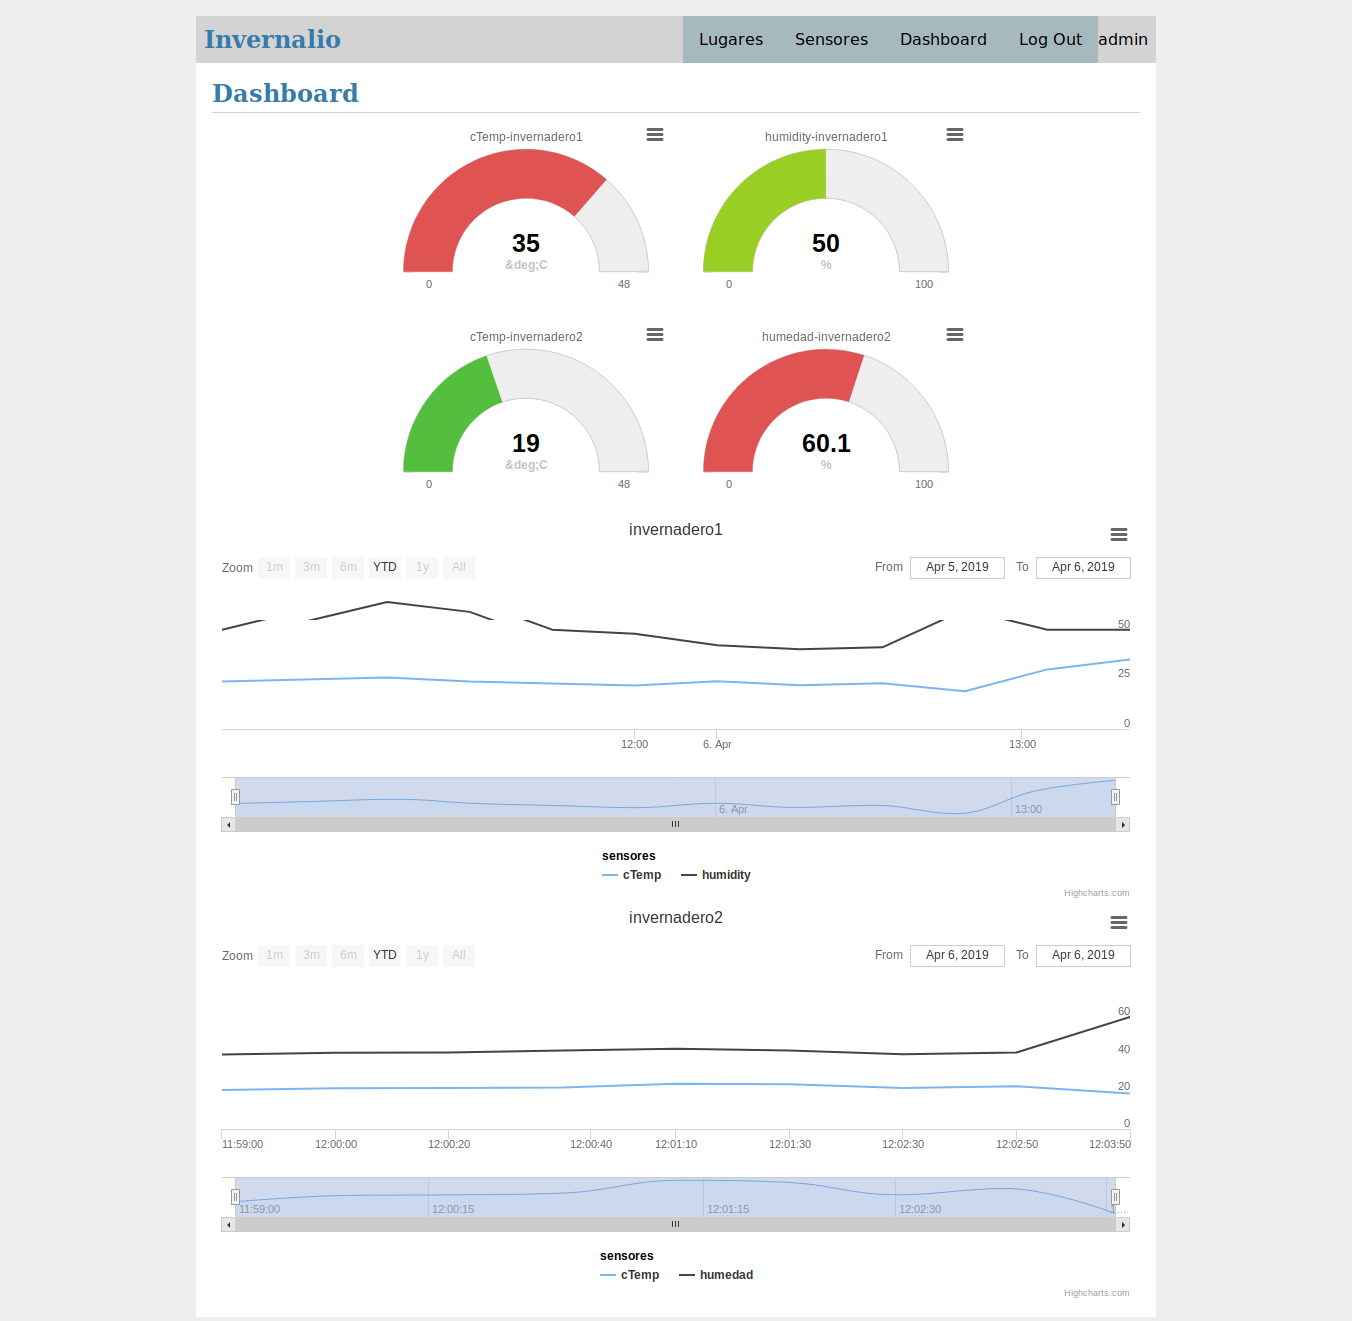
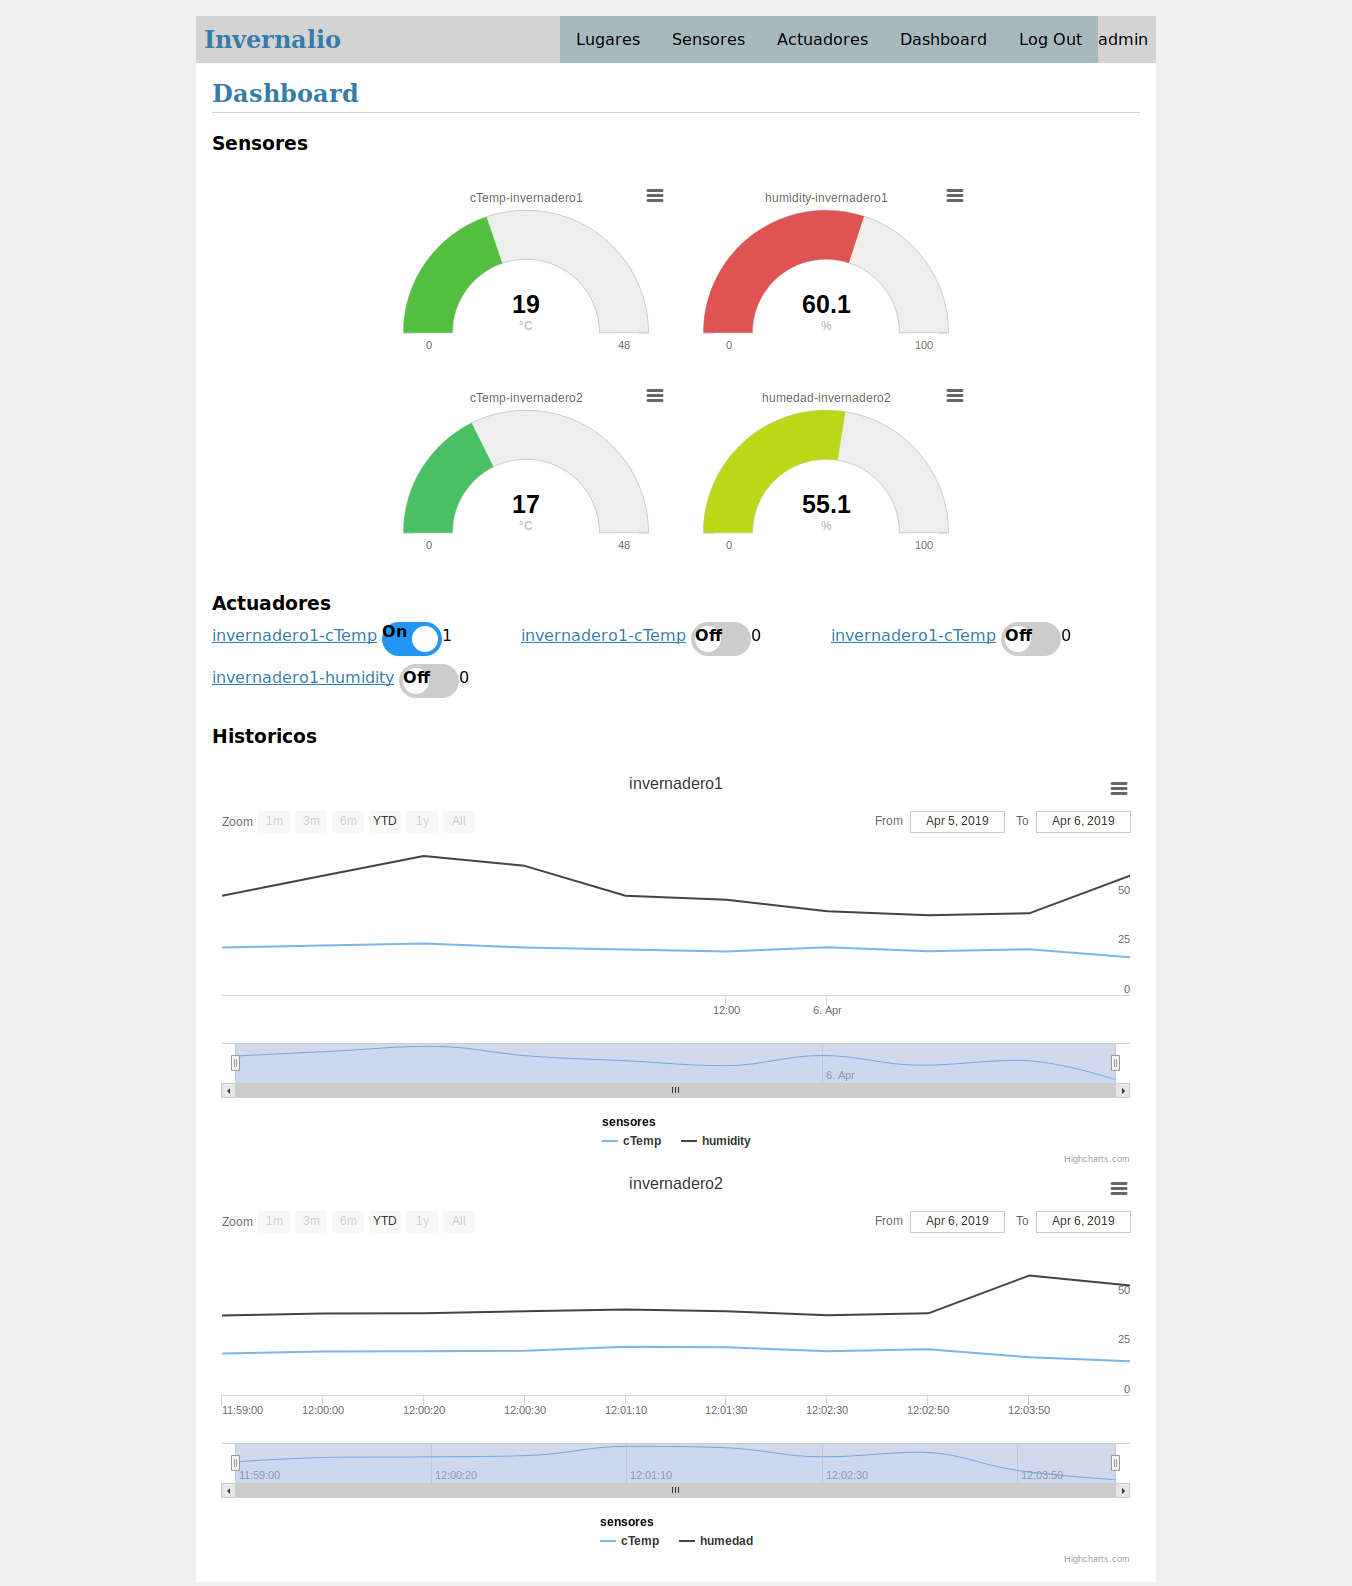
Cambios menores en el dashboard

diff --git a/piinvernadero/templates/dashboard/index.html b/piinvernadero/templates/dashboard/index.html
@@ -10,7 +10,7 @@
         <script src="{{ url_for('static', filename='highcharts-more.js') }}"></script>
         <script src="{{ url_for('static', filename='solid-gauge.js') }}"></script>
         <style type="text/css">
-           .outer {width: 600px;height: {{ boxwidth }}px;margin: 0 auto;}
+           .outer {width: 600px;height: {{ sensores|length*100+(sensores|length % 2)*100  }}px;margin: 0 auto;}
           .outer .chart-container {width: 300px;float: left;height: 200px;}
           .highcharts-yaxis-grid .highcharts-grid-line {display: none;}
           @media (max-width: 600px) {
@@ -106,8 +106,8 @@
 
   <h3>Actuadores</h3>
   {% for actuator in actuators %}
+    {% if index['actuador'] == 0 or index['actuador'] % 3 == 0 %} <div id="content-body"> {% endif %}
     {% if index['actuador'] % 3 == 0  %}
-      <div id="content-body">
         <div id="primero" >
 		<span > <a class="action" href="{{ url_for('actuator.update', id=actuator['id']) }}">
 				{{ actuator['site'] }}-{{ actuator['sensor'] }}</a></span>
@@ -138,9 +138,9 @@
                       <span class="slider round"></span>
               </label>{{ actuator['status'] }}
          </div>
-      </div>
-    {% endif %}
+    {% endif %} 
     {% set _ = index.update({'actuador':index['actuador']+1}) %}
+    {% if index['actuador'] == actuators|length or (index['actuador']-1) % 3 == 2 %} </div> {% endif %}
   {% endfor %}
 </div>
 <script type="text/javascript">

diff --git a/piinvernadero/dashboard.py b/piinvernadero/dashboard.py
@@ -23,7 +23,6 @@ def index():
         ' FROM sensor '
         ' ORDER BY id ASC'
     ).fetchall()
-    boxwidth=100*len(sensores)+(len(sensores)%2)*100
     lugares = db.execute(
         'SELECT id, name'
         ' FROM site '
@@ -39,8 +38,8 @@ def index():
 
 
     #print (*lugares,sep = ", ")
-    print (lugares[0]['id'])
-    return render_template('dashboard/index.html', sensores=sensores,boxwidth=boxwidth,lugares=lugares, actuators=actuators)
+    #print (lugares[0]['id'])
+    return render_template('dashboard/index.html', sensores=sensores,lugares=lugares, actuators=actuators)
 
 @bp.route('/actual')
 @login_required

diff --git a/README.md b/README.md
@@ -22,7 +22,7 @@ El sistema deberá tener:
 - [X] Graficas de los valores historicos de los sensores
 - [X] Graficas de los sensores actuales de cada lugar (invernadero)
 - [ ] Modificar el dashboard para agregar sensores seleccionados por el usuario
-
+- [ ] Integracion con las lecturas de los luagares
 
 El usuario y clave por defecto son: admin:admin
 
